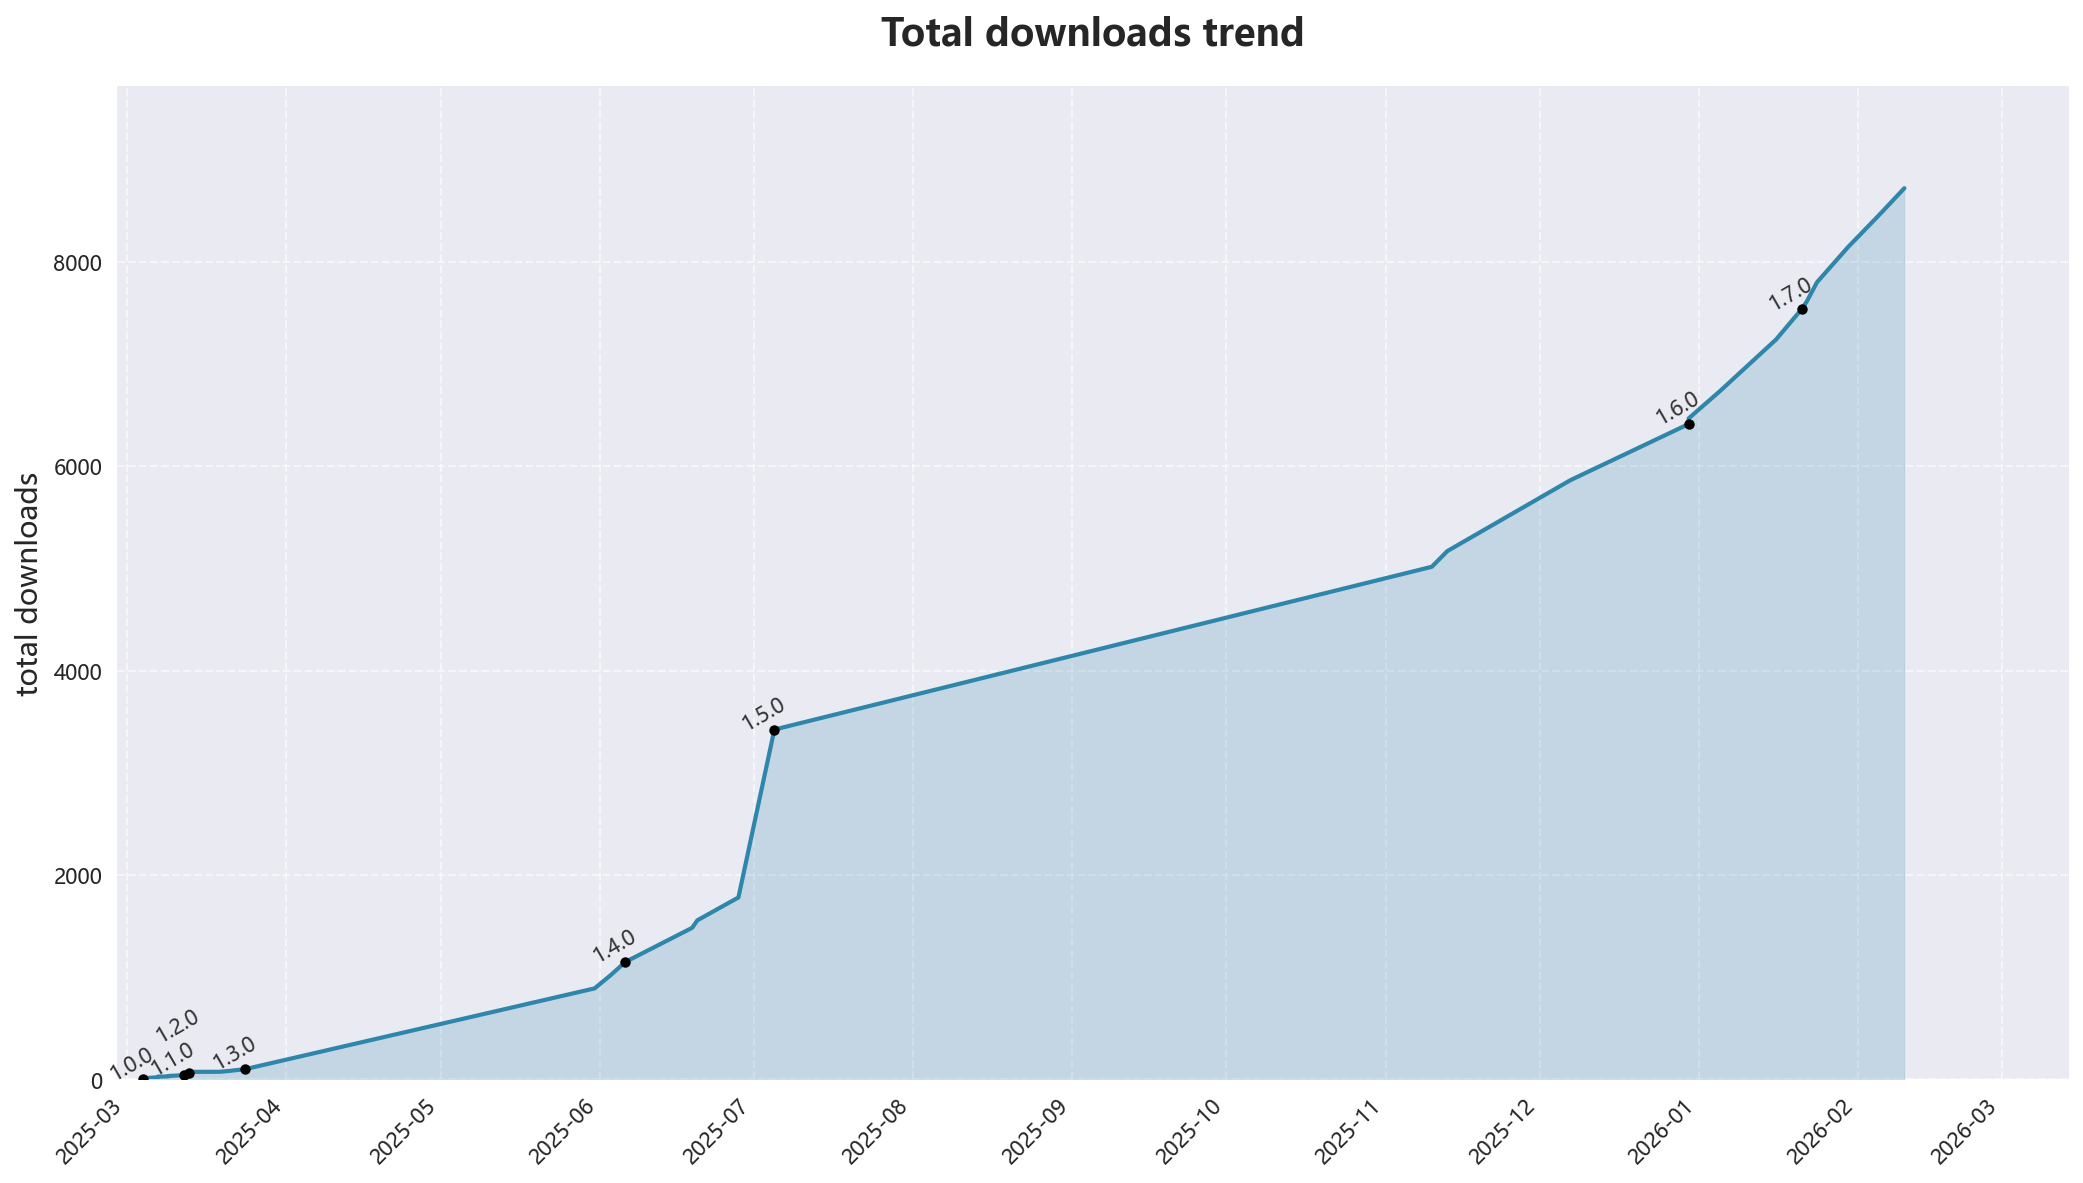
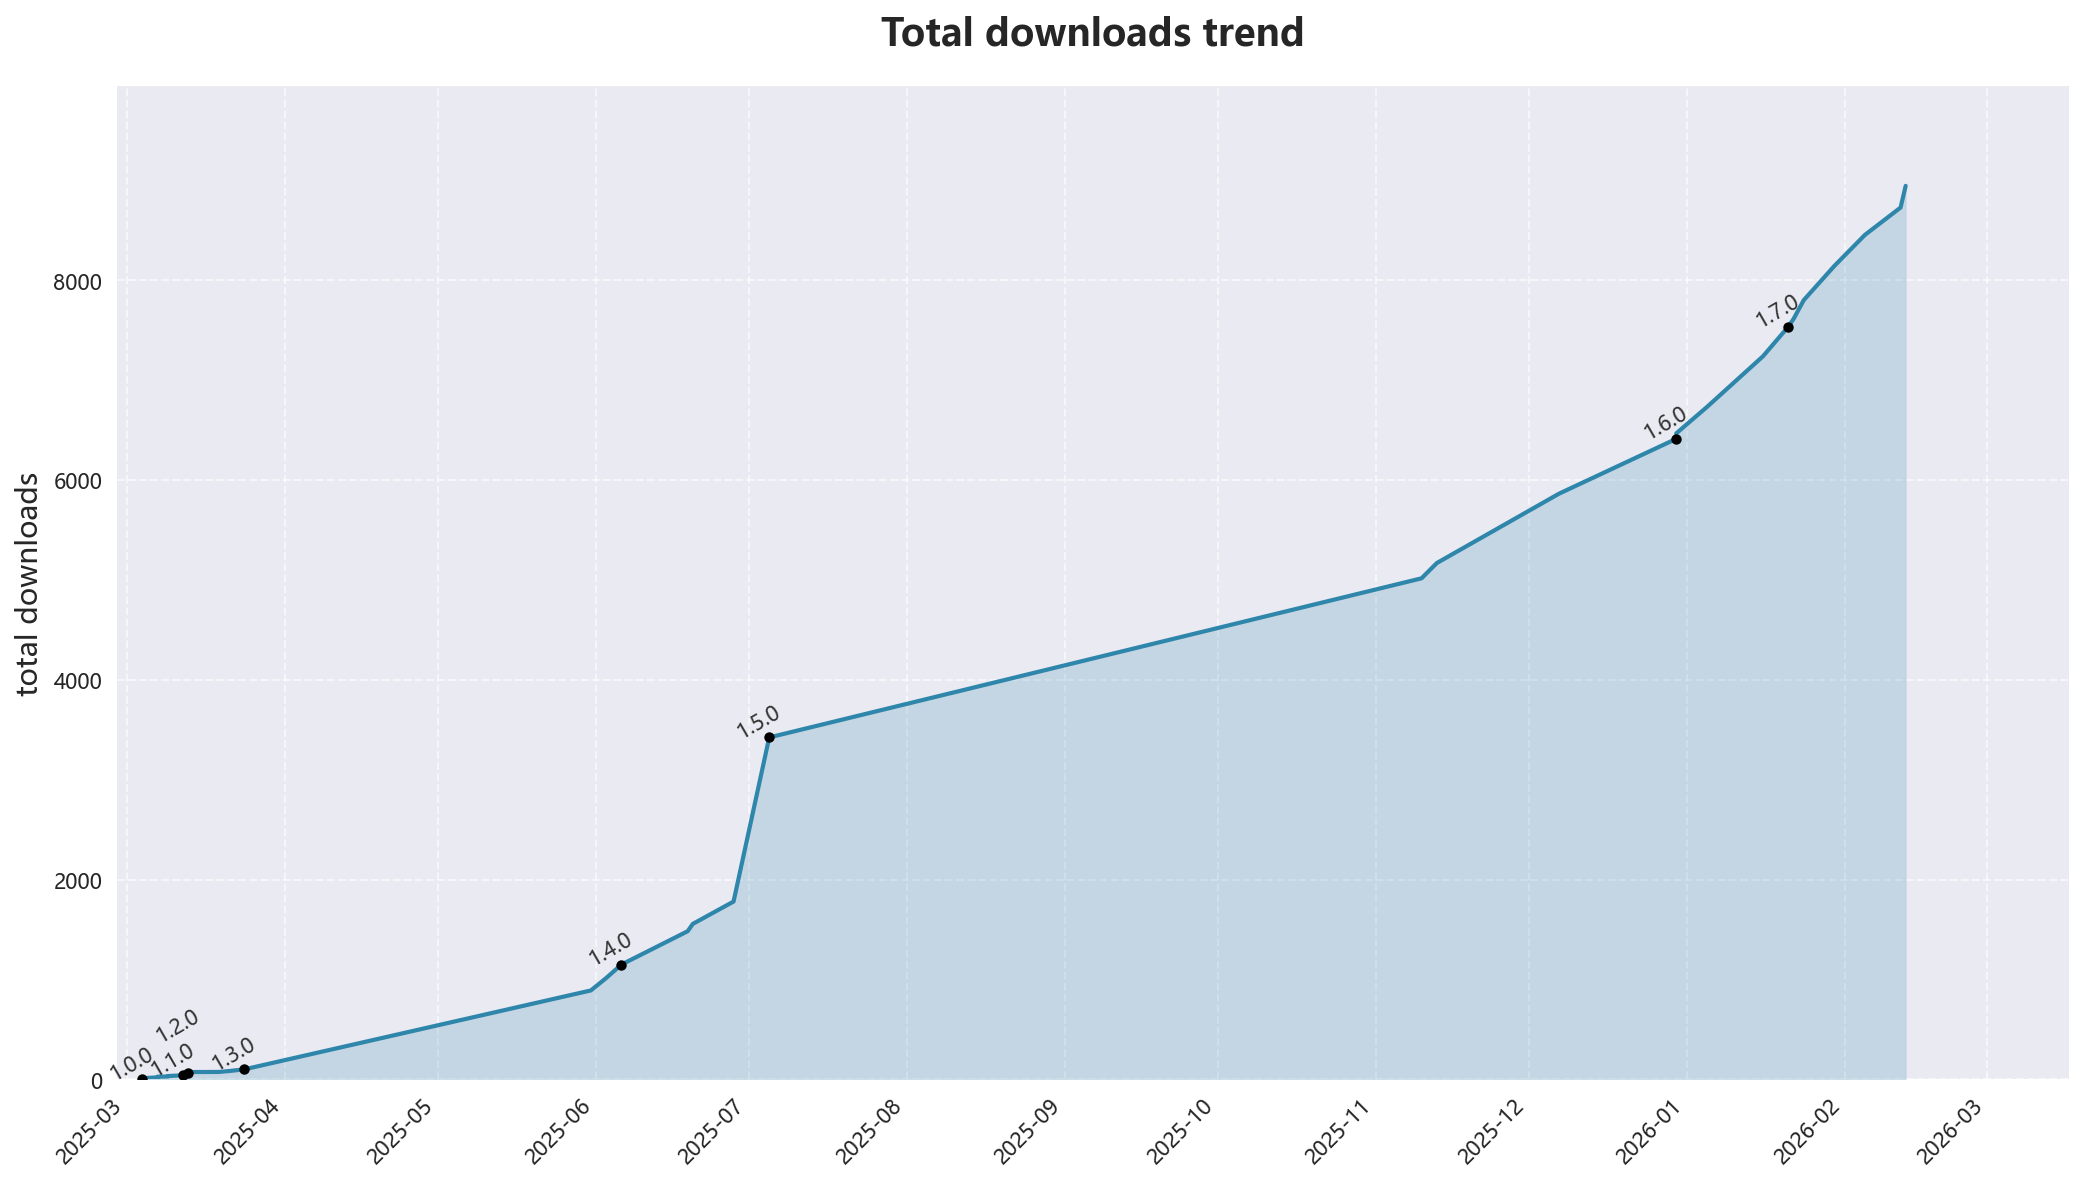
version update

diff --git a/src/changeLog.ts b/src/changeLog.ts
@@ -1,8 +1,65 @@
-export const currentPluginVersion = '1.7.5';
+export const currentPluginVersion = '1.8.0';
 
 export const changelog = {
 'en': 
 `
+### 2.0.0 updates
+
+>[!caution]
+>Weekly note, monthly note users should be careful:
+>- if the periodic note title format is not a safe usecase of \`moment.js\`, you will be prompted to change title format or revert to 1.7.x version.
+>- you should assign a property to mark your recorder as non-daily-note for best compatibility
+>	- this feature is introduced in 2.0.0, in plugin settings > recorders > periodic note to record > periodic note type.
+
+>[!important]
+>Thanks for the companion and feedbacks in the previous 33 versions of this plugin since 1.0.0. In the future, this plugin will mainly focus on the following functions:
+>1. **data analysis** and **periodic summary**
+>2. **AI integration**
+>
+>Any idea or new notion will be warm welcomed by [raising an issue](https://github.com/LeCheenaX/WordFlow-Tracker/issues). You can also fetch the upcoming features in [developing roadmap](https://github.com/LeCheenaX/WordFlow-Tracker/wiki/Development-RoadMap).
+>
+>If you enjoy WordFlow Tracker, please consider giving it a star ⭐ on GitHub. 
+> Your support is the greatest encouragement for me to keep improving this plugin.  
+>👉 [Star WordFlow Tracker on GitHub](https://github.com/LeCheenaX/WordFlow-Tracker)
+>
+>— _LeCheenaX_  
+>Thank you for being part of this journey! 🙏
+
+🚀 **Key Insights:**
+- New view: heatmap view is available for daily note recorder
+- UI and control panel is completely reworked:
+    - add view switch button with three modes (file list, tag list, heatmap)
+    - add note navigation support for reviewing previous data
+    - recorder switching panel is moved to the top of the widget
+- Depreciated: \`enable tag-based view\` is replaced by \`default view on open\` in widget settings.
+
+🔥 **Major Updates:**
+- Heatmap view: *available for daily note recorder only*
+    - Custom color and gradient levels is supported
+    - dynamically adapt gradient thresholds to different properties based on existing data in daily notes, which ensures the note will be distributed on all levels for better visual hierarchy
+    - consistent behaviors from Obsidian: 
+        - click the legend to open note
+        - press ctrl + click on legend to open in new tab
+        - press ctrl and hover on legend to preview daily note content
+- Navigate panel: 
+    - hidden by default, hover on the date in widget to show up
+    - mark label based on date: today, yesterday, this week, last week, etc.
+    - consistent behaviors from Obsidian: 
+        - click the legend to open note
+        - press ctrl + click on legend to open in new tab
+
+🐛 **Bug Fixed:**
+- No information is displayed is selected field has data but all data is zero
+
+⚡ **Enhancements:**
+- Decoupling the function \`getOrCreateRecordNote\` into separate functions
+- Improve folder creation logic with better error handling and validation
+- Complete missing notification messages translations
+
+🎨 **UI Reworked:**
+- New style for dropdown component
+- Switching note support with navigation buttons
+
 ### 1.7.5 updates
 ✨ **New Features:**
 - Preview the result of recording syntax.
@@ -33,57 +90,66 @@ export const changelog = {
 🎨 **UI Optimization:**
 - File name will ellipse correctly in tag based view. 
 - Files with no tag, which has a configured color, will have coordinate style with other files.
-
-### 1.7.3 updates
-🐛 **Bug Fixed:**
-- Race condition issues while recording ([Issue 11](https://github.com/LeCheenaX/WordFlow-Tracker/issues/11)).
-- Widget silently collapses when data is corrupted by unexpected file rename or migration.
-
-⚡ **Enhancements:**
-- Safeguarding the color updating mechanism to prevent racing issues.
-
-### 1.7.2 updates
-✨ **New Features:**
--  Custom tag group labels (optional)
-
-🐛 **Bug Fixed:**
-- Setting validation is incorrect.
-- Widget timing will unexpectedly display seconds.
-
-🎨 **UI Optimization:**
-- Uniform font styles in the tag based view.
-- Correcting setting styling when width is not enough.
-
-### 1.7.1 updates
-🐛 **Bug Fixed:**
-- Tag colors are not saved correctly.
-
-🎨 **UI Optimization:**
-- Fixed mobile color picker distortion in tag color settings.
-
-### 1.7.0 updates
-🔥 **Major Updates:**
-- Tag-based colors. Instead of randomly generated colors for file displaying in the widget, supports custom colors based on the file tags. 
-- Tag-based data View: Hierarchical list view with collapsible tag groups and dual-layer progress bar for better data organization.
-
-✨ **New Features:**
-- Option to automatically resume focus mode after idle pause
-
-🐛 **Bug Fixed:**
-- Metadata of the notes may sometimes be duplicated in YAML frontmatter
-- Status bar occasionally displaying incorrect content in reading mode
-- Fixed settings page auto-closing when plugin is disabled while widget view is active
-
-⚡ **Enhancements:**
-- Improved YAML frontmatter handling using Obsidian's metadataCache API for more reliable metadata operations
-- Optimized plugin loading & unloading process to prevent UI conflicts
-
-🎨 **UI Optimization:**
-- Realigned the setting pages for clarity.
-- More tooltips and hover behaviors. 
 `,
 'zh-CN': 
 `
+### 2.0.0 更新内容
+
+>[!caution]
+>每周笔记、每月笔记用户请注意：
+>- 如果周期笔记的标题格式不是 \`moment.js\` 的安全用例，系统会提示您修改标题格式，或回退至 1.7.x 版本。
+>- 为获得最佳兼容性，您应为记录器指定一个属性，将其标记为非日记笔记。
+>	- 此功能于 2.0.0 版本引入，路径：插件设置 > 记录器 > 需记录的周期性笔记 > 周期性笔记类型。
+
+>[!important]
+>感谢您自 1.0.0 以来在之前的 33 个版本中给予的陪伴与反馈。未来，本插件将主要聚焦于以下功能：
+>1. **数据分析**与**周期性总结**
+>2. **AI 集成**
+>
+>任何想法或新概念，都欢迎通过[提交 Issue](https://github.com/LeCheenaX/WordFlow-Tracker/issues) 与我们分享。您也可以在[开发路线图](https://github.com/LeCheenaX/WordFlow-Tracker/wiki/Development-RoadMap)中了解即将推出的功能。
+>
+>如果您喜欢 WordFlow Tracker，不妨在 GitHub 上为我们点亮一颗星星 ⭐。  
+>您的支持是我持续改进插件的最大动力。  
+>👉 [在 GitHub 上为 WordFlow Tracker 点星](https://github.com/LeCheenaX/WordFlow-Tracker)
+>
+>— _LeCheenaX_  
+>感谢您一路同行！ 🙏
+
+🚀 **核心亮点：**
+- 新增视图：日记记录器现已支持热力图视图。
+- 界面与控制面板完全重构：
+    - 增加视图切换按钮，提供三种模式（文件列表、标签列表、热力图）。
+    - 增加笔记导航支持，便于回顾历史数据。
+    - 记录器切换面板移至组件顶部。
+- 弃用：\`启用基于标签的视图\' 已被替换为小部件设置中的 \'打开时默认视图\'.
+
+🔥 **主要更新：**
+- 热力图视图：*仅适用于日记*
+    - 支持自定义颜色及渐变等级。
+    - 根据日记笔记中的现有数据动态调整渐变阈值，确保笔记分布在各等级，以获得更佳的视觉层次。
+    - 与 Obsidian 一致的操作行为：
+        - 点击图例可打开笔记；
+        - 按住 Ctrl 并点击图例可在新标签页中打开；
+        - 按住 Ctrl 并悬停图例可预览日记笔记内容。
+- 导航面板：
+    - 默认隐藏，将鼠标悬停于小部件日期上方时显示。
+    - 基于日期的标签标记：今天、昨天、本周、上周等。
+    - 与 Obsidian 一致的操作行为：
+        - 点击图例可打开笔记；
+        - 按住 Ctrl 并点击图例可在新标签页中打开。
+
+🐛 **问题修复：**
+- 修复了当所选字段存在数据但所有数据均为零时，无信息显示的问题。
+
+⚡ **功能增强：**
+- 将 \`getOrCreateRecordNote\` 函数解耦为多个独立函数。
+- 改进文件夹创建逻辑，增强错误处理与验证。
+- 补全缺失的通知消息翻译。
+
+🎨 **界面重构：**
+- 下拉组件新样式。
+- 支持通过导航按钮切换笔记。
+
 ### 1.7.5 更新
 ✨ **新功能：**
 - 预览记录语法的结果。
@@ -114,53 +180,5 @@ export const changelog = {
 🎨 **界面优化：**
 - 修复标签视图模式下文件名超长时的省略显示问题。
 - 没有标签但配置了颜色的文件，现在会与其他文件保持协调的样式。
-
-### 1.7.3 更新
-🐛 **错误修复：**
-- 侧栏组件静默崩溃，当文件被意外重命名或迁移导致数据污染后。
-- 记录器触发竞态条件导致的记录失败 （[Issue 11](https://github.com/LeCheenaX/WordFlow-Tracker/issues/11)）。
-
-⚡ **性能增强：**
-- 优化颜色更新机制，防止竞态问题
-
-### 1.7.2 更新
-✨ **新功能：**
-- 自定义标签组标签（可选）
-
-🐛 **错误修复：**
-- 设置验证的结果显示与实际不符
-- 侧栏组件计时会意外显示秒数
-
-🎨 **界面优化：**
-- 统一基于标签视图中的字体样式
-- 修正宽度不足时的设置样式
-
-### 1.7.1 更新
-🐛 **错误修复：**
-- 标签颜色无法正确保存
-
-🎨 **界面优化：**
-- 修复移动端标签颜色设置中颜色选择器变形
-
-### 1.7.0 更新
-🔥 **核心功能：**
-- 基于自定义标签的颜色。侧栏组件中显示的数据可以根据笔记的标签指定显示颜色，让分类更清晰。
-- 基于标签的层级化列表视图。支持标签组折叠和双层进度条，让数据组织更清晰。
-
-✨ **新特性：**
-- 新增设置：专注模式因闲置暂停后，回到文档可以自动恢复专注（默认关闭）
-
-🐛 **错误修复：**
-- YAML 前置元数据有时会被重复添加的问题
-- 状态栏在阅读模式下有时会错误显示内容的问题
-- 修复了在侧栏组件处于活动状态时禁用插件导致设置页面自动关闭的问题
-
-⚡ **性能增强：**
-- 使用 Obsidian 的 metadataCache API 改进 YAML 前置元数据处理，提高元数据操作的可靠性
-- 优化插件加载、卸载流程，防止界面冲突
-
-🎨 **界面优化：**
-- 重新整理设置页面，展示更清晰。
-- 增加鼠标悬浮效果和提示。
 `
 };

diff --git a/src/Widget.ts b/src/Widget.ts
@@ -1922,6 +1922,27 @@ export class WordflowWidgetView extends ItemView {
                                 confirmModal.open();
                             }
                         });
+
+                        // Add hover handler for Ctrl+hover preview (only for existing notes)
+                        cell.addEventListener('mouseover', (evt: MouseEvent) => {
+                            if (!this.selectedRecorder) return;
+                            if (!(evt.ctrlKey || evt.metaKey)) return;
+
+                            const targetDate = cellDate.valueOf();
+                            const recordNote = this.selectedRecorder.getRecordNote(targetDate);
+
+                            if (recordNote) {
+                                // Trigger Obsidian's hover preview
+                                this.plugin.app.workspace.trigger('hover-link', {
+                                    event: evt,
+                                    source: 'wordflow-widget',
+                                    hoverParent: this,
+                                    targetEl: cell,
+                                    linktext: recordNote.path,
+                                    sourcePath: recordNote.path
+                                });
+                            }
+                        });
                     }
 
                     currentDate.add(1, 'day');

diff --git a/miscellaneous/downloads-Trend.py b/miscellaneous/downloads-Trend.py
@@ -50,7 +50,8 @@ data = [
     ("2026-01-22", 188, "1.7.1"),
     ("2026-01-24", 342, "1.7.2"),
     ("2026-01-30", 311, "1.7.3"),
-    ("2026-02-05", 267, "1.7.4"),
+    ("2026-02-05", 274, "1.7.4"),
+    ("2026-02-12", 217, "1.7.5"),
 ]
 
 # --- [修改 1] 动态获取当前日期并追加到数据末尾 ---
